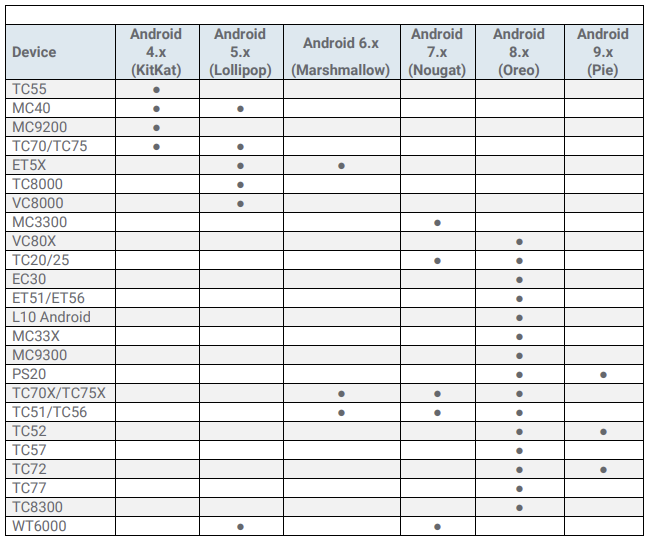
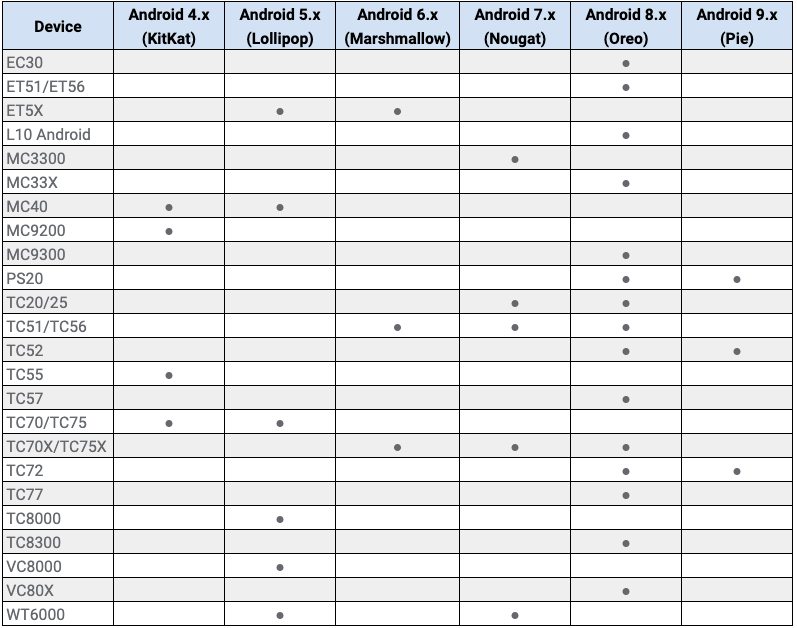
[TUT-25232] ZDS 2.0 updates

Changed region(s): [[0.0, 0.0, 1.0, 1.0]]

diff --git a/src/zds/2-0/about/index.md b/src/zds/2-0/about/index.md
@@ -24,27 +24,29 @@ _Zebra Data Services as they appear in Settings > Apps > on older (center) and n
 _Click image to enlarge; ESC to exit_. 
 <br>
 
+-----
+
 ### Data Collected
 
-* General device information
-* Device utilization data 
-* BSP, LifeGuard and security patch levels applied
+* General device information (model, serial number, etc.)
+* Device usage data 
+* OS image, LifeGuard and security patch levels applied
 * Available RAM
-* Flash information and health 
+* Device storage (flash) information and health 
 * Battery information and health
+* Wi-Fi (WLAN) connection events
+* Cellular (WWAN) connection events (if applicable)
 * **Data traffic statistics (as applicable) for**: 
  * Bluetooth
- * Cellular
+ * Cellular (WWAN)
  * Ethernet
- * Wi-Fi
-* WLAN connection events
-* WWAN connection events (if applicable)
+ * Wi-Fi (WLAN)
 * **Location data (as applicable) for**: 
  * Cellular 
  * GPS
- * WLAN
-* Information about system apps and their usage
-* Information about Zebra apps and their usage: 
+ * Wi-Fi (WLAN)
+* System app info and usage
+* Zebra app info and usage data, including for:  
  * DataWedge
  * Enterprise Home Screen
  * EMDK for Android 
@@ -60,14 +62,14 @@ _Click image to enlarge; ESC to exit_.
 
 ### Data Access
 
-**Participating Zebra customers and partners can access collected data in the form of [Zebra Foresight](https://www.zebra.com/us/en/services/visibilityiq/foresight.html) reports if <u>ALL FOUR</u> of the following requirements are met on all desired Zebra Android devices**:
+Data is collected and **participating Zebra customers and partners can access the collected data in the form of [Zebra Foresight](https://www.zebra.com/us/en/services/visibilityiq/foresight.html) reports if <u>ALL FOUR</u> of the following requirements are met on all desired Zebra Android devices**:
 
 * **ELIGIBILITY -** Device(s) must support ZDS agent software. Most Zebra Android devices with
-KitKat (or later) come with ZDS preinstalled. See [all supported devices](#devicesupport).
+KitKat (or later) come with ZDS preinstalled. See [all supported devices](#supporteddevices).
 * **ENABLEMENT -** ZDS agent software must be enabled on the device. Eligible devices are
 shipped with ZDS enabled by default. See the [Setup guide](../setup) for more info.
-* **CONNECTIVITY -** Device(s) must be connected to the internet.
-* **PERMISSION -** The organization's firewall must allow communication with the Zebra’s server at [analytics.zebra.com](http://analytics.zebra.com) using server port 443.
+* **CONNECTIVITY -** Device(s) must be connected to the internet at least once every 24 hours to allow data upload.
+* **PERMISSION -** The organization's firewall must allow communication with the Zebra data collection server at [analytics.zebra.com](http://analytics.zebra.com) using server port 443.
 
 **NOTE**: If Foresight reports appear blank or devices are missing from the reports, please confirm that ***ALL***
 of the above requirements are met.
@@ -89,7 +91,7 @@ of the above requirements are met.
 
 -----
  -->
-## Device Support
+## Supported Devices
 
 ZDS comes preinstalled on the following supported devices with the Android versions indicated. **Devices and/or Android versions not shown here are NOT compatible with ZDS**. Some devices running KitKat require ZDS to be installed manually. Contact [Zebra Support](https://www.zebra.com/us/en/about-zebra/contact-zebra/contact-tech-support.html) for more information.
 
@@ -102,6 +104,7 @@ _Click image to enlarge; ESC to exit_.
 ## See Also
 
 * **[FAQ](../faq)** | Frequently asked questions about ZDS
+* **[ZDS Setup Guide](../setup)** | How to check whether ZDS is enabled
 
 <!-- 
 menu:
